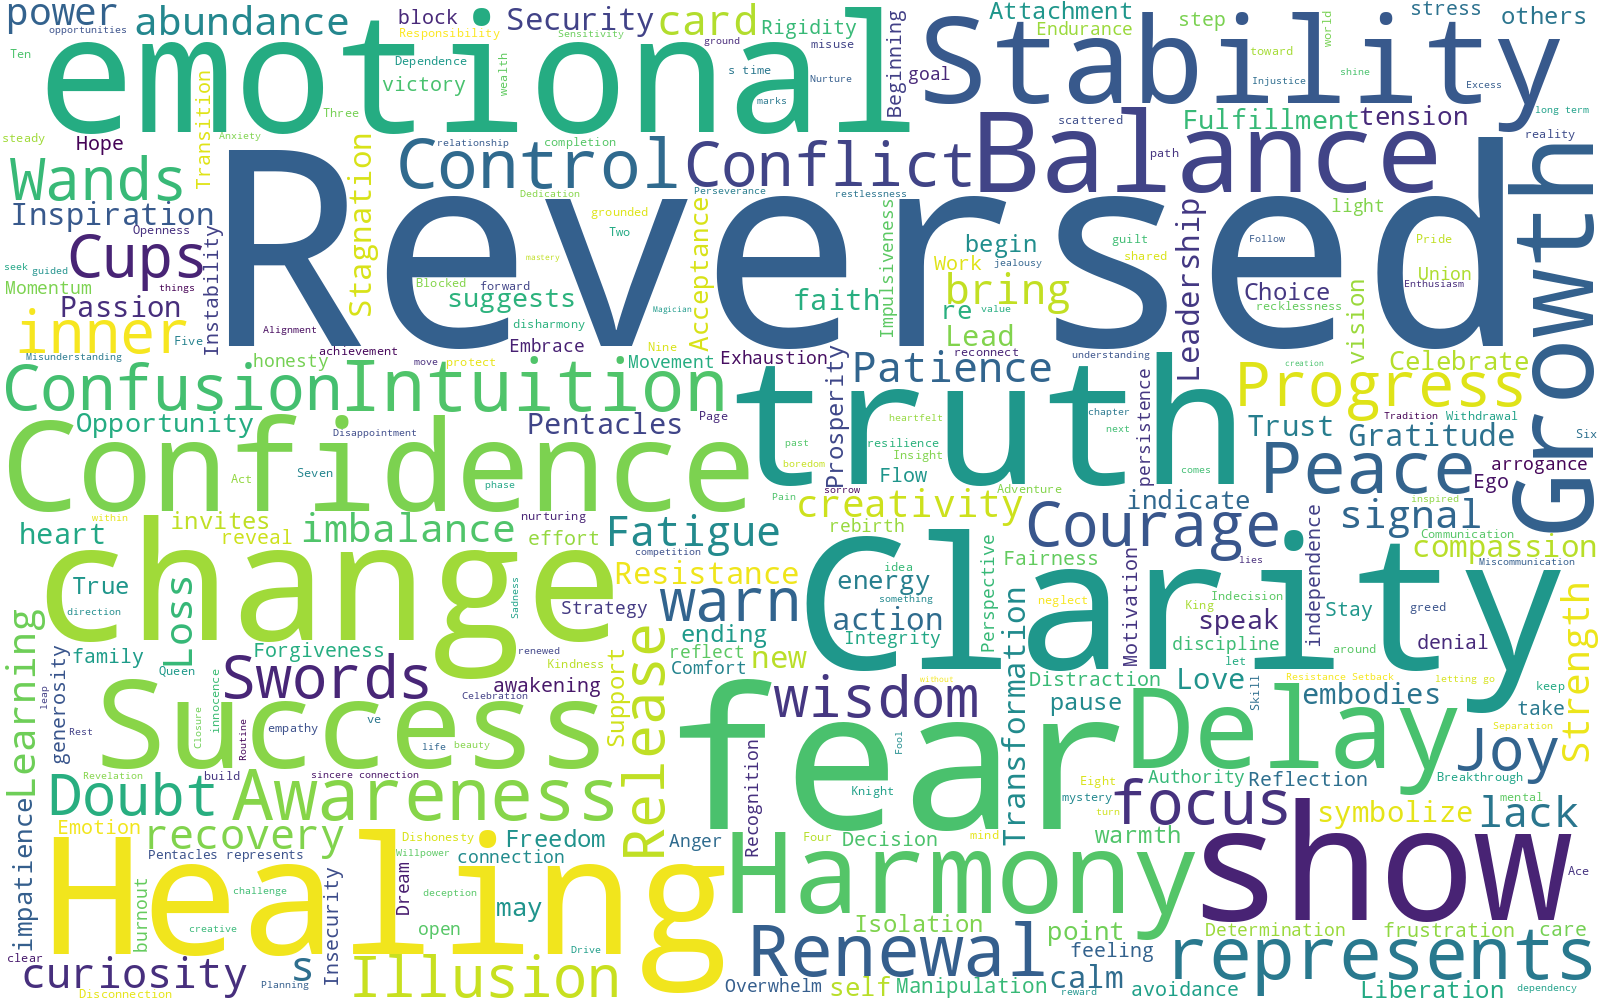
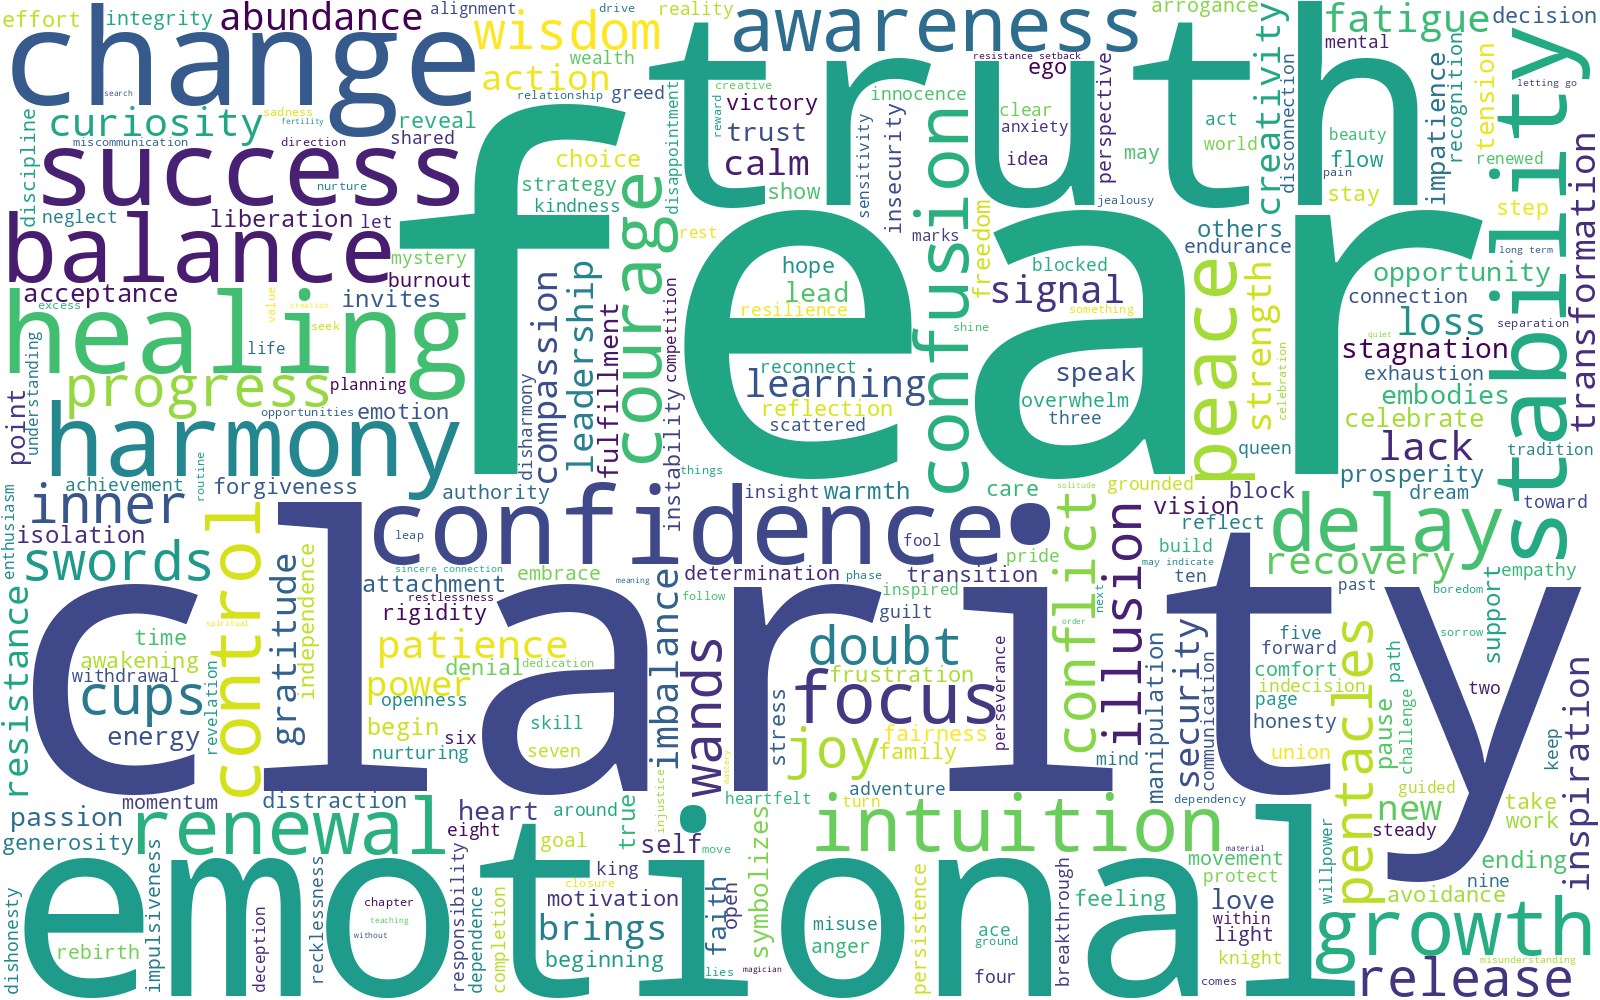
add wordclouds

diff --git a/analysis/run_analysis.py b/analysis/run_analysis.py
@@ -40,7 +40,15 @@ STOP_FR_EXTRA = {
     "celles","ceux","celui","celles-ci","ceci","lors","tandis","alors","être",
     "tout","toute","toutes","tous","lorsque","car","par","au","aux","du",
     "de","la","le","un","une","et","ou","se","sa","son","ses","leur","leurs",
-    "elle","il","ils","elles","on","que","qui","quand", "à", "ton", "par", "te"
+    "elle","il","ils","elles","on","que","qui","quand", "à", "ton", "par", "te",
+    "carte","symbolise","évoque","représente","invite","parle","indique",
+    "en","vers","est","c’est","peut","souvent","met","après","tu","incarne","envers"
+}
+
+STOP_EN_EXTRA = {
+    "card","reversed","shows","suggests","indicates","means",
+    "represents","symbolize","bring","warns","message","tells",
+    "this","that","can","often"
 }
 
 def normalize_text(s: str) -> str:
@@ -64,19 +72,41 @@ def gather_corpus(df: pd.DataFrame) -> str:
     return normalize_text(all_text)
 
 def make_wordcloud(text: str, lang_code: str, out_path: Path):
-    sw = set(STOPWORDS)
+    # 1) normalisation légère
+    if not isinstance(text, str):
+        text = ""
+    # normaliser apostrophes typographiques et minuscules
+    text = text.replace("’", "'").lower()
+
+    # 2) contractions spécifiques
     if lang_code.lower() == "fr":
-        sw |= STOP_FR_EXTRA
         # enlever formes contractées FR communes
-        for x in ["d’","l’","qu’","n’","s’","j’","t’","m’","c’"]:
+        for x in ["d'", "l'", "qu'", "n'", "s'", "j'", "t'", "m'", "c'"]:
             text = text.replace(x, " ")
+    else:
+        # enlever le possessif anglais
+        text = text.replace("'s ", " ")
+
+    # 3) stopwords
+    sw = set(STOPWORDS)
+    if lang_code.lower() == "en":
+        sw |= STOP_EN_EXTRA
+    elif lang_code.lower() == "fr":
+        sw |= STOP_FR_EXTRA
+
+    # 4) génération
     wc = WordCloud(
-        width=1600, height=1000,
+        width=1600,
+        height=1000,
         background_color="white",
         stopwords=sw,
-        collocations=True,
-        max_words=300
+        collocations=True,   # conserve certaines bigrammes utiles
+        max_words=300,
+        random_state=42      # reproductible
+        # font_path="assets/DejaVuSans.ttf",  # ← décommente si accents mal rendus
     ).generate(text)
+
+    # 5) export
     wc.to_file(str(out_path))
 
 def process_language(lang_label: str, xlsx_path: Path, out_graph: Path, out_stats: Path, out_wc: Path):
